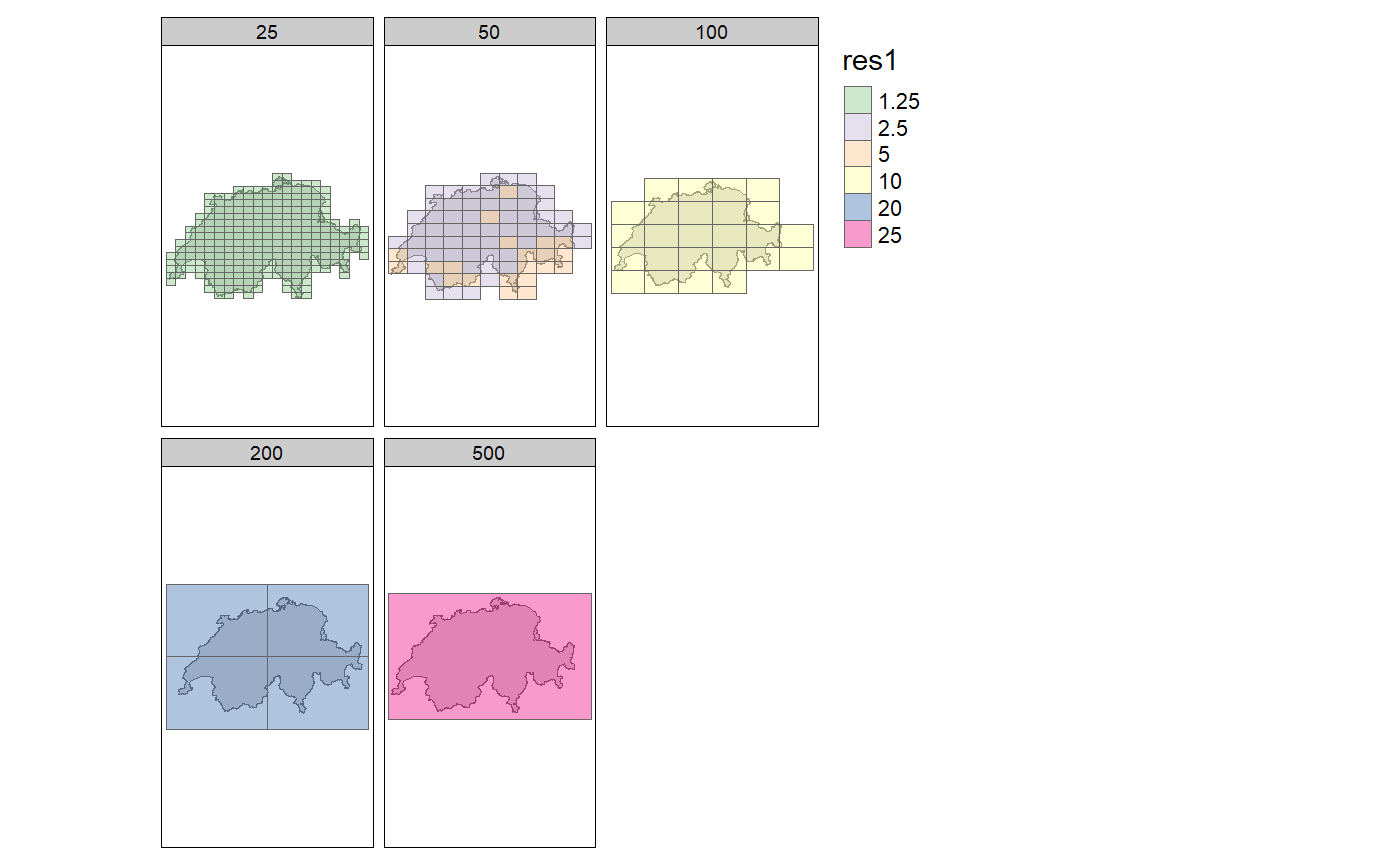
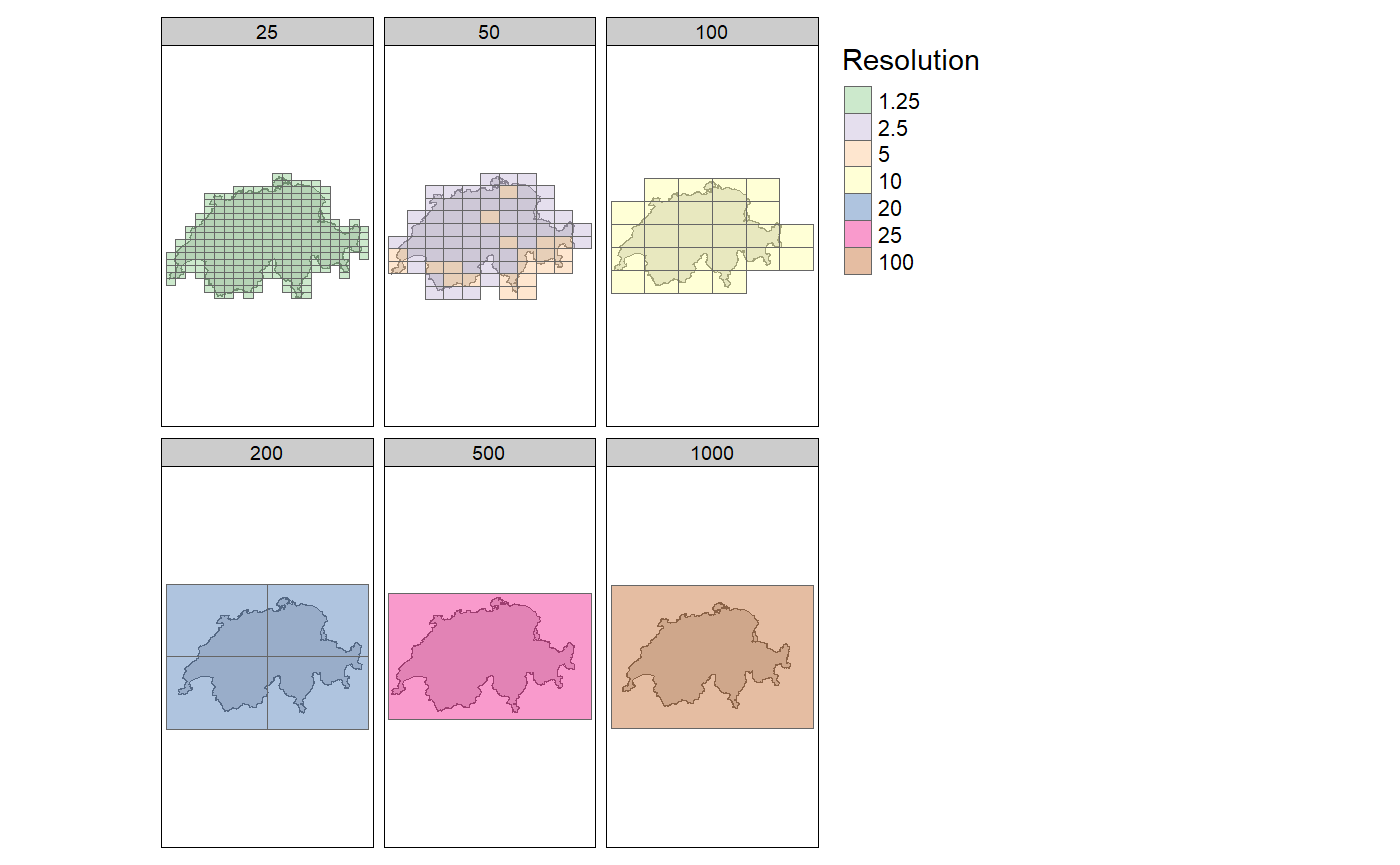
sdf

diff --git a/docs/index.html b/docs/index.html
@@ -77,6 +77,12 @@
 <div id="how-is-the-package-used" class="section level2">
 <h2 class="hasAnchor">
 <a href="#how-is-the-package-used" class="anchor"></a>How is the package used?</h2>
+<div id="aquire-raster-data" class="section level3">
+<h3 class="hasAnchor">
+<a href="#aquire-raster-data" class="anchor"></a>Aquire raster data</h3>
+<p>First of all, the raster maps need to be acquired and stored in a folder. The package is developed with a focus on <a href="https://shop.swisstopo.admin.ch/de/products/maps/national/digital/">SwissMapRaster</a>, but probably other raster maps will work as well. Currently only <a href="https://epsg.io/2056">CRS 2056</a> is implemented. We might also include <a href="https://epsg.io/21781">CRS 21781</a> at some point but that’s probably it.</p>
+<p>The raster maps should be sorted in a folder per scale. Currently, the names of the folders must be as follows: “SMR25” for 1:25’000 maps, “SMR50” for 1:50’000 maps and so on. Rasters should not overlap or have gaps.</p>
+</div>
 <div id="download-package" class="section level3">
 <h3 class="hasAnchor">
 <a href="#download-package" class="anchor"></a>Download package</h3>
@@ -86,64 +92,37 @@
 <a class="sourceLine" id="cb1-3" data-line-number="3"><span class="kw"><a href="https://www.rdocumentation.org/packages/base/topics/library">library</a></span>(swissmapraster)</a>
 <a class="sourceLine" id="cb1-4" data-line-number="4"><span class="kw"><a href="https://www.rdocumentation.org/packages/base/topics/library">library</a></span>(dplyr)</a></code></pre></div>
 </div>
-<div id="aquire-raster-data" class="section level3">
+<div id="scan-folder" class="section level3">
 <h3 class="hasAnchor">
-<a href="#aquire-raster-data" class="anchor"></a>Aquire raster data</h3>
-<p>First of all, the raster maps need to be acquired and stored in a folder. The package is developed with a focus on <a href="https://shop.swisstopo.admin.ch/de/products/maps/national/digital/">SwissMapRaster</a>, but probably other raster maps will work as well. Currently only <a href="https://epsg.io/2056">CRS 2056</a> is implemented. We might also include <a href="https://epsg.io/21781">CRS 21781</a> at some point but that’s probably it.</p>
-<p>The raster maps should be sorted in a folder per scale. Currently, the names of the folders must be as follows: “SMR25” for 1:25’000 maps, “SMR50” for 1:50’000 maps and so on. Rasters should not overlap or have gaps.</p>
-<p>Next, the command <code>init_fdir()</code> pointing to the location (parent folder) of this maps initiates the “File Directory”. This means all the folders are scanned recursively and the their content analyzed. All files ending with “tif” are checked for extent, number of layers and resolution. It returns an sf object with all mentioned attributes of each raster file, along with the file path and the extent as a geometry.</p>
+<a href="#scan-folder" class="anchor"></a>Scan Folder</h3>
+<p>Next, run the command <code>init_fdir()</code> pointing to the location (parent folder) of this maps. This command creates a “File Directory” in the package environment by scanning all folders recursively and analyzing the content. All files ending with “tif” are checked for extent, number of layers and resolution. All the mentioned attributes of each raster file, along with the file path and the extent as a geometry, are stoerd in the variable <code>fdir</code> of the package environment.</p>
 <div class="sourceCode" id="cb2"><pre class="sourceCode r"><code class="sourceCode r"><a class="sourceLine" id="cb2-1" data-line-number="1"><span class="kw">init_fdir</span>(<span class="st">"C:/Users/rata/Geodata/01_Switzerland/01_Maps"</span>)</a></code></pre></div>
-<pre><code>## Simple feature collection with 368 features and 9 fields
-## geometry type:  POLYGON
-## dimension:      XY
-## bbox:           xmin: 2463000 ymin: 1044100 xmax: 2900000 ymax: 1319900
-## epsg (SRID):    2056
-## proj4string:    +proj=somerc +lat_0=46.95240555555556 +lon_0=7.439583333333333 +k_0=1 +x_0=2600000 +y_0=1200000 +ellps=bessel +towgs84=674.374,15.056,405.346,0,0,0,0 +units=m +no_defs
-## First 10 features:
-##       xmin    xmax    ymin    ymax scale
-## 1  2672500 2690000 1290000 1302000    25
-## 2  2690000 2707500 1290000 1302000    25
-## 3  2672500 2690000 1278000 1290000    25
-## 4  2690000 2707500 1278000 1290000    25
-## 5  2707500 2725000 1278000 1290000    25
-## 6  2725000 2742500 1278000 1290000    25
-## 7  2742500 2760000 1278000 1290000    25
-## 8  2602500 2620000 1266000 1278000    25
-## 9  2620000 2637500 1266000 1278000    25
-## 10 2637500 2655000 1266000 1278000    25
-##                                                                                  file
-## 1  C:/Users/rata/Geodata/01_Switzerland/01_Maps/SMR25/SMR25_LV95_KOMB_1011_2013_1.tif
-## 2  C:/Users/rata/Geodata/01_Switzerland/01_Maps/SMR25/SMR25_LV95_KOMB_1012_2014_1.tif
-## 3  C:/Users/rata/Geodata/01_Switzerland/01_Maps/SMR25/SMR25_LV95_KOMB_1031_2013_1.tif
-## 4  C:/Users/rata/Geodata/01_Switzerland/01_Maps/SMR25/SMR25_LV95_KOMB_1032_2014_1.tif
-## 5  C:/Users/rata/Geodata/01_Switzerland/01_Maps/SMR25/SMR25_LV95_KOMB_1033_2014_1.tif
-## 6  C:/Users/rata/Geodata/01_Switzerland/01_Maps/SMR25/SMR25_LV95_KOMB_1034_2014_3.tif
-## 7  C:/Users/rata/Geodata/01_Switzerland/01_Maps/SMR25/SMR25_LV95_KOMB_1035_1988_1.tif
-## 8  C:/Users/rata/Geodata/01_Switzerland/01_Maps/SMR25/SMR25_LV95_KOMB_1047_2011_2.tif
-## 9  C:/Users/rata/Geodata/01_Switzerland/01_Maps/SMR25/SMR25_LV95_KOMB_1048_2012_1.tif
-## 10 C:/Users/rata/Geodata/01_Switzerland/01_Maps/SMR25/SMR25_LV95_KOMB_1049_2012_1.tif
-##    nlayers res1 res2                       geometry
-## 1        1 1.25 1.25 POLYGON ((2672500 1290000, ...
-## 2        1 1.25 1.25 POLYGON ((2690000 1290000, ...
-## 3        1 1.25 1.25 POLYGON ((2672500 1278000, ...
-## 4        1 1.25 1.25 POLYGON ((2690000 1278000, ...
-## 5        1 1.25 1.25 POLYGON ((2707500 1278000, ...
-## 6        1 1.25 1.25 POLYGON ((2725000 1278000, ...
-## 7        1 1.25 1.25 POLYGON ((2742500 1278000, ...
-## 8        1 1.25 1.25 POLYGON ((2602500 1266000, ...
-## 9        1 1.25 1.25 POLYGON ((2620000 1266000, ...
-## 10       1 1.25 1.25 POLYGON ((2637500 1266000, ...</code></pre>
+</div>
+<div id="show-available-raster-extents" class="section level3">
+<h3 class="hasAnchor">
+<a href="#show-available-raster-extents" class="anchor"></a>Show available raster extents</h3>
 <p>In order to view the available extents, call the function <code><a href="reference/show_extents.html">show_extents()</a></code>. The default method is <code>ggplot2</code>.</p>
-<div class="sourceCode" id="cb4"><pre class="sourceCode r"><code class="sourceCode r"><a class="sourceLine" id="cb4-1" data-line-number="1"><span class="kw"><a href="https://www.rdocumentation.org/packages/base/topics/library">library</a></span>(ggplot2)</a>
-<a class="sourceLine" id="cb4-2" data-line-number="2"><span class="kw"><a href="reference/show_extents.html">show_extents</a></span>()</a></code></pre></div>
+<div class="sourceCode" id="cb3"><pre class="sourceCode r"><code class="sourceCode r"><a class="sourceLine" id="cb3-1" data-line-number="1"><span class="kw"><a href="https://www.rdocumentation.org/packages/base/topics/library">library</a></span>(ggplot2)</a>
+<a class="sourceLine" id="cb3-2" data-line-number="2"><span class="kw"><a href="reference/show_extents.html">show_extents</a></span>()</a></code></pre></div>
 <p><img src="index_files/figure-html/unnamed-chunk-3-1.png" width="700"></p>
-<p>Use <code>method = "tmap"</code> to show the extents in combination with other spatial data. For example, the boundary of switzerland is included in the package.</p>
-<div class="sourceCode" id="cb5"><pre class="sourceCode r"><code class="sourceCode r"><a class="sourceLine" id="cb5-1" data-line-number="1"><span class="kw"><a href="https://www.rdocumentation.org/packages/utils/topics/data">data</a></span>(<span class="st">"landesgebiet"</span>)</a>
-<a class="sourceLine" id="cb5-2" data-line-number="2"></a>
-<a class="sourceLine" id="cb5-3" data-line-number="3"><span class="kw"><a href="https://www.rdocumentation.org/packages/base/topics/library">library</a></span>(tmap)</a>
-<a class="sourceLine" id="cb5-4" data-line-number="4"><span class="kw">tm_shape</span>(landesgebiet) <span class="op">+</span><span class="st"> </span></a>
-<a class="sourceLine" id="cb5-5" data-line-number="5"><span class="st">   </span><span class="kw">tm_polygons</span>() <span class="op">+</span><span class="st"> </span><span class="kw"><a href="reference/show_extents.html">show_extents</a></span>(<span class="st">"tmap"</span>)</a></code></pre></div>
+<p>Use <code>method = "tmap"</code> to show the extents in combination with other spatial data. For example, the <a href="https://opendata.swiss/en/dataset/swissboundaries3d-landesgrenzen">boundary of switzerland</a> is included in the package. Load this dataset with <code><a href="https://www.rdocumentation.org/packages/utils/topics/data">data("landesgebiet")</a></code></p>
+<div class="sourceCode" id="cb4"><pre class="sourceCode r"><code class="sourceCode r"><a class="sourceLine" id="cb4-1" data-line-number="1"><span class="kw"><a href="https://www.rdocumentation.org/packages/utils/topics/data">data</a></span>(<span class="st">"landesgebiet"</span>)</a>
+<a class="sourceLine" id="cb4-2" data-line-number="2"></a>
+<a class="sourceLine" id="cb4-3" data-line-number="3"></a>
+<a class="sourceLine" id="cb4-4" data-line-number="4"><span class="kw"><a href="https://www.rdocumentation.org/packages/base/topics/library">library</a></span>(tmap)</a>
+<a class="sourceLine" id="cb4-5" data-line-number="5"><span class="kw">tm_shape</span>(landesgebiet) <span class="op">+</span><span class="st"> </span></a>
+<a class="sourceLine" id="cb4-6" data-line-number="6"><span class="st">   </span><span class="kw">tm_polygons</span>() <span class="op">+</span><span class="st"> </span><span class="kw"><a href="reference/show_extents.html">show_extents</a></span>(<span class="st">"tmap"</span>)</a></code></pre></div>
 <p><img src="index_files/figure-html/unnamed-chunk-4-1.png" width="700"></p>
+<div class="sourceCode" id="cb5"><pre class="sourceCode r"><code class="sourceCode r"><a class="sourceLine" id="cb5-1" data-line-number="1"><span class="kw"><a href="https://www.rdocumentation.org/packages/utils/topics/data">data</a></span>(<span class="st">"gemeinden_top_centroid"</span>)</a>
+<a class="sourceLine" id="cb5-2" data-line-number="2"></a>
+<a class="sourceLine" id="cb5-3" data-line-number="3"><span class="kw">tm_shape</span>(landesgebiet) <span class="op">+</span><span class="st"> </span><span class="kw">tm_polygons</span>() <span class="op">+</span><span class="st"> </span><span class="kw">tm_shape</span>(gemeinden_top_centroid) <span class="op">+</span><span class="st"> </span><span class="kw">tm_dots</span>(<span class="dt">size =</span> <span class="st">"EINWOHNERZ"</span>)</a></code></pre></div>
+<p><img src="index_files/figure-html/unnamed-chunk-5-1.png" width="700"></p>
+<div class="sourceCode" id="cb6"><pre class="sourceCode r"><code class="sourceCode r"><a class="sourceLine" id="cb6-1" data-line-number="1">schweiz_<span class="dv">1000</span> &lt;-<span class="st"> </span><span class="kw">get_raster</span>(<span class="dt">features =</span> gemeinden_top_centroid,<span class="dt">scale_level =</span> <span class="dv">1000</span>,<span class="dt">x_add =</span> <span class="dv">500</span>, <span class="dt">y_add =</span> <span class="dv">500</span>,<span class="dt">method =</span> <span class="st">"bbox"</span>,<span class="dt">epsg =</span> <span class="dv">2056</span>)</a></code></pre></div>
+<pre><code>## Warning in .f(file = .l[[c(1L, 1L)]], res1 = .l[[c(2L, 1L)]], res2
+## = .l[[c(3L, : Rasters in Extent do not have matching resolutions. Using
+## disaggregate in order to enable merging</code></pre>
+<div class="sourceCode" id="cb8"><pre class="sourceCode r"><code class="sourceCode r"><a class="sourceLine" id="cb8-1" data-line-number="1"><span class="kw">tm_shape</span>(schweiz_<span class="dv">1000</span>) <span class="op">+</span><span class="st"> </span><span class="kw">tm_rgb</span>() <span class="op">+</span><span class="st"> </span><span class="kw">tm_shape</span>(gemeinden_top_centroid) <span class="op">+</span><span class="st"> </span><span class="kw">tm_dots</span>(<span class="dt">size =</span> <span class="st">"EINWOHNERZ"</span>)</a></code></pre></div>
+<p><img src="index_files/figure-html/unnamed-chunk-5-2.png" width="700"></p>
 </div>
 </div>
   </div>
